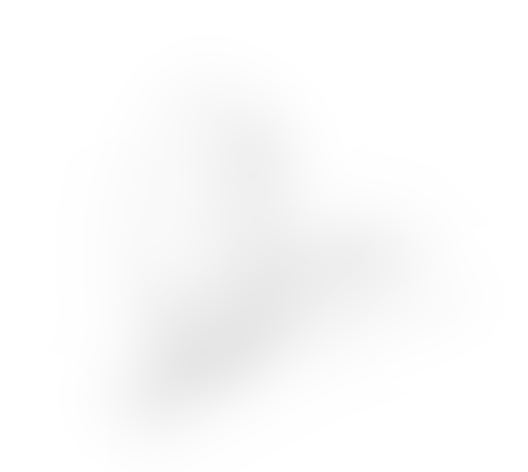
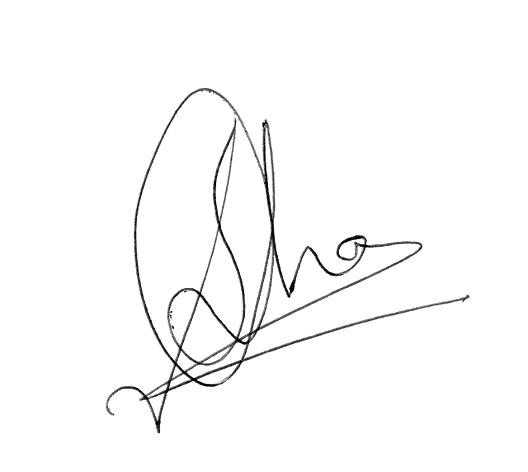
@Saptarshi was having issues with compilation

diff --git a/main.tex b/main.tex
@@ -1,3 +1,4 @@
+\documentclass[a4paper, 12pt]{book}
 \input{frontbackmatter/preamble.latex}
 \begin{document}
 % -------------------------- Front Matter -------------------------------------
